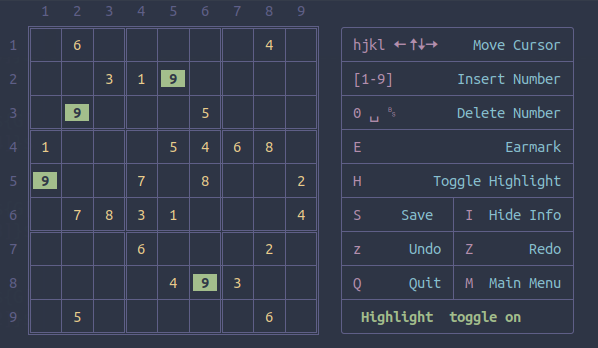
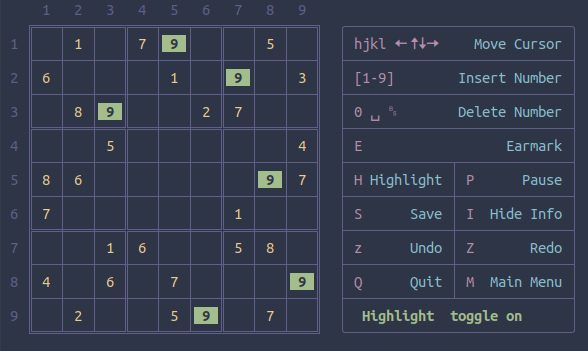
Introduce new feature: Pause Game

Changed region(s): [[0.0, 0.0, 0.551, 0.977], [0.5816, 0.0575, 0.9796, 0.9483]]

diff --git a/README.md b/README.md
@@ -42,6 +42,7 @@ Using the shortcuts in the shown cheatsheet table, the player can
 |  E   | Earmark cells|
 |H|Toggle Highlight Numbers|
 |I|Toggle show Info (key cheatsheet)|
+|P|Pause Game
 |S|Save Game|
 |z,Z| Undo / Redo |
 |M|Return to Main Menu|
@@ -76,6 +77,9 @@ Using the shortcuts in the shown cheatsheet table, the player can
 
     ![6a.png](screenshots/6a.png)
 
+- Typing `P` will **pause the game.** By hitting any key, the user can return to the game.
+
+    ![6b.png](screenshots/6b.png)
 
 - The user can also **Undo** or **Redo** their entries with the `z` or `Z` option respectively.
 
@@ -168,11 +172,13 @@ cp tui-sudoku.sh  ~/.local/bin/
 Create the necessary directories:
 
 ```
+
 mkdir -p ~/.config/tui-sudoku/ ~/.cache/tui-sudoku/saved_games/
 mkdir -p  ~/.cache/tui-sudoku/png/
 cp tui-sudoku.config ~/.config/tui-sudoku/tui-sudoku.config
 touch ~/.cache/tui-sudoku/history.txt ~/.cache/tui-sudoku/hiscores.txt
 cp -r png/ ~/.cache/tui-sudoku/
+
 ```
 
 ---
